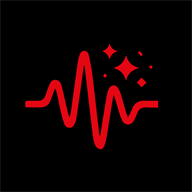
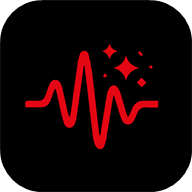
v170: scene e scalette in main, icona arrotondata e Novita
Il ramo scene entra in main (chiesto dall'utente): scene e scalette sulla
pagina PC. Tolte le scene e la scaletta finte della bozza. I dati che
arrivano dal sync o da un backup si ripuliscono all'ingresso (scenaPulita,
scalettePulite): al piu' tre scene, valori fra 0 e 1, campi del tipo giusto;
era la condizione dell'audit per il merge.

L'icona della webapp installata con gli angoli arrotondati (raggio 22%,
come le icone delle app), dallo script make-icons.ps1; la maskable e
l'apple-touch-icon restano piene. Nei manifest l'icona ha ?v=2, perche'
chi ha l'app installata la riprenda. Splash Novita v170 in italiano e
inglese. Microsoft Store: fermo alla 1.0.2, per scelta dell'utente.

diff --git a/src/pc/16-scene.js b/src/pc/16-scene.js
@@ -1,4 +1,4 @@
-// Sparkling Tones — pc/16-scene.js: le scene di un preset, solo sul PC (bozza, 18 novembre 2026).
+// Sparkling Tones — pc/16-scene.js: le scene di un preset, solo sul PC (18 novembre 2026).
 //
 // Studio e misure in docs/scene.md. Una scena è una variante dello stesso preset: **cambia solo
 // manopole e acceso/spento, mai un modello**. Nel record: `record.scene = [{ nome,
@@ -23,7 +23,26 @@ const SCENA_PRESSIONE = 700;   // ms tenendo premuto per aprire il riquadro
 
 live.scene = false;     // il modo Scene della Live
 
-const sceneDi = record => (record && Array.isArray(record.scene)) ? record.scene : [];
+/**
+ * Le scene di un preset, ripulite sul posto (audit del 19 novembre 2026): `record.scene` arriva anche
+ * dal sync e dai backup, e i suoi valori vanno all'ampli con `0x0104`. Al più tre; valori numerici fra
+ * 0 e 1, acceso/spento veri booleani; il resto si scarta. Si pulisce senza togliere scene, così gli
+ * indici (la scena che suona, la partenza delle canzoni) restano quelli.
+ */
+function scenaPulita(s) {
+  const o = x => (x && typeof x === 'object' && !Array.isArray(x)) ? x : {};
+  const cambi = {}, accesi = {};
+  for (const [k, v] of Object.entries(o(s && s.cambi)))
+    if (/^[^#]+#\d+$/.test(k) && typeof v === 'number' && Number.isFinite(v)) cambi[k] = Math.max(0, Math.min(1, v));
+  for (const [k, v] of Object.entries(o(s && s.accesi)))
+    if (typeof v === 'boolean') accesi[k] = v;
+  return { nome: String((s && s.nome) == null ? '' : s.nome).slice(0, 100), cambi, accesi };
+}
+function sceneDi(record) {
+  if (!record || !Array.isArray(record.scene)) return [];
+  record.scene = record.scene.slice(0, SCENE_MAX).map(scenaPulita);
+  return record.scene;
+}
 
 /** Il record in libreria di quello che suona, fresco (le scene cambiano anche da qui). */
 const recordDiOra = () => (ora && ora.record ? tutti.find(r => r.id === ora.record.id) || ora.record : null);
@@ -386,37 +405,4 @@ async function apriRiquadroScena(record, indice) {
   }
   // Si torna a quello che deve suonare: la scena salvata, o quella di prima se si annulla o si elimina.
   await suonaScena(r && r.azione === 'salva' ? indice : (ora.scena === undefined ? null : ora.scena));
-}
-
-/* ---- SOLO BOZZA (pc.html?bozza#finto): due preset finti con le scene già fatte. ---- */
-if (/bozza/.test(location.search)) {
-  // La libreria la riempie l'ampli finto quando si collega: si aspetta che ci sia.
-  const aspetta = setInterval(async () => {
-    const elenco = await store.all();
-    if (!elenco.length) return;
-    clearInterval(aspetta);
-    for (const record of elenco.slice(0, 2)) {
-      if (sceneDi(record).length) continue;
-      const fx = record.effects;
-      const drive = fx[2], delay = fx[5], ampli = fx[3];
-      const gain = (e, d) => ({ [e.name + '#0']: Math.max(0, Math.min(1, e.params[0].value + d)) });
-      record.scene = [
-        { nome: 'Ritmica', cambi: gain(drive, -0.2), accesi: { [delay.name]: false } },
-        { nome: 'Solo', cambi: { ...gain(drive, 0.3), ...gain(delay, 0.15) }, accesi: { [delay.name]: true, [drive.name]: true } },
-        { nome: 'Pulito', cambi: gain(ampli, -0.4), accesi: { [drive.name]: false } },
-      ];
-      await store.put(record);
-    }
-    // E una scaletta finta: «Billie Jean» parte dalla terza scena.
-    if (!(await store.getScalette()).length) {
-      const [a, b, c] = elenco;
-      await store.setScalette([{ uuid: nuovoUuid(), nome: 'Serata di prova', canzoni: [
-        { uuid: nuovoUuid(), nome: 'Billie Jean', preset: a.uuid, partenza: 2 },
-        { uuid: nuovoUuid(), nome: 'Wish You Were Here', preset: b.uuid, partenza: null },
-        { uuid: nuovoUuid(), nome: 'Sunshine of Your Love', preset: (c || a).uuid, partenza: null },
-        { uuid: nuovoUuid(), nome: 'Hotel California', preset: a.uuid, partenza: 1 },
-      ] }]);
-    }
-    await ricarica(); disegnaTutto();
-  }, 1000);
 }

diff --git a/src/lingua-en.js b/src/lingua-en.js
@@ -2045,6 +2045,26 @@ window.LINGUA_EN = {
     "The PC guide explains the Live looper: length, count-in, click and every button.",
   "Versione {0}":
     "Version {0}",
+  "Le scene":
+    "Scenes",
+  "Fino a tre scene per preset, più la Base: cambiano manopole ed effetti accesi senza cambiare preset. Nella Live, modo Scene; tenendo premuto un pulsantone la scena si modifica mentre la senti.":
+    "Up to three scenes per preset, plus the Base: they change knobs and which effects are on without changing preset. In Live, Scenes mode; hold a big button down to edit the scene while you hear it.",
+  "Le canzoni della serata, ognuna col suo preset e la scena da cui parte. Si preparano da «Scalette» e si suonano dalla Live, modo Scene.":
+    "The songs of the night, each with its preset and the scene it starts from. Prepare them from “Setlists” and play them from Live, Scenes mode.",
+  "Con «La mia chitarra», «Genera con l'IA» consiglia anche quali pickup usare; si vedono dall'icona della chitarra, e si possono scrivere a mano.":
+    "With “My guitar”, “Generate with AI” also suggests which pickups to use; you see them from the guitar icon, and you can write them yourself.",
+  "Pressione lunga più corta":
+    "Shorter long press",
+  "Nella Live, la pressione lunga degli switch MIDI si può fissare anche a 0,7 s.":
+    "In Live, the long press of MIDI switches can now also be set to 0.7 s.",
+  "Più sicura sul palco":
+    "Safer on stage",
+  "Un preset con un effetto che l'ampli non conosce non parte più dalla Live né dall'editor: avrebbe potuto bloccare l'ampli.":
+    "A preset with an effect the amp doesn't know no longer starts from Live or from the editor: it could have frozen the amp.",
+  "Icona arrotondata":
+    "Rounded icon",
+  "L'icona dell'app installata ha gli angoli arrotondati.":
+    "The installed app's icon has rounded corners.",
   "Spark Mini, GO e 40 sul PC":
     "Spark Mini, GO and 40 on the PC",
   "Cambiando preset l'app aspetta un attimo prima di rileggere il suono, come già sul NEO.":

diff --git a/src/novita.js b/src/novita.js
@@ -26,6 +26,24 @@ function dataNovita(d) {
 
 const NOVITA = [
   {
+    versione: 'v170',
+    data: '19 novembre 2026',
+    voci: [
+      { icona: '🎛', titolo: tr('Le scene'), dove: 'pc',
+        testo: tr('Fino a tre scene per preset, più la Base: cambiano manopole ed effetti accesi senza cambiare preset. Nella Live, modo Scene; tenendo premuto un pulsantone la scena si modifica mentre la senti.') },
+      { icona: '📋', titolo: tr('Le scalette'), dove: 'pc',
+        testo: tr('Le canzoni della serata, ognuna col suo preset e la scena da cui parte. Si preparano da «Scalette» e si suonano dalla Live, modo Scene.') },
+      { icona: '🎸', titolo: tr('Pickup consigliati'), dove: 'pc',
+        testo: tr('Con «La mia chitarra», «Genera con l\'IA» consiglia anche quali pickup usare; si vedono dall\'icona della chitarra, e si possono scrivere a mano.') },
+      { icona: '⏱', titolo: tr('Pressione lunga più corta'), dove: 'pc',
+        testo: tr('Nella Live, la pressione lunga degli switch MIDI si può fissare anche a 0,7 s.') },
+      { icona: '🛡', titolo: tr('Più sicura sul palco'), dove: 'telefono',
+        testo: tr('Un preset con un effetto che l\'ampli non conosce non parte più dalla Live né dall\'editor: avrebbe potuto bloccare l\'ampli.') },
+      { icona: '📱', titolo: tr('Icona arrotondata'),
+        testo: tr('L\'icona dell\'app installata ha gli angoli arrotondati.') },
+    ],
+  },
+  {
     versione: 'v169',
     data: '17 novembre 2026',
     voci: [

diff --git a/src/pc/02-stato.js b/src/pc/02-stato.js
@@ -32,8 +32,27 @@ async function ricarica() {
   famiglie = await store.getFamiglie();
   categorie = await store.allCategories();
   banchi = await store.getBanks();
-  scalette = await store.getScalette();
+  scalette = scalettePulite(await store.getScalette());
   vista.ordine = await store.getSetting('ordineLibreria', vista.ordine);
+}
+
+/**
+ * Le scalette come le usa la pagina, qualunque cosa arrivi dal sync o da un backup (audit del 19
+ * novembre 2026): campi del tipo giusto, la scena di partenza fra 0 e 2 o null (la Base).
+ */
+function scalettePulite(elenco) {
+  const oggetti = a => (Array.isArray(a) ? a : []).filter(x => x && typeof x === 'object');
+  return oggetti(elenco).map(s => ({
+    uuid: typeof s.uuid === 'string' && s.uuid ? s.uuid : nuovoUuid(),
+    nome: String(s.nome == null ? '' : s.nome).slice(0, 100) || tr('Scaletta'),
+    canzoni: oggetti(s.canzoni).map(c => ({
+      uuid: typeof c.uuid === 'string' && c.uuid ? c.uuid : nuovoUuid(),
+      nome: String(c.nome == null ? '' : c.nome).slice(0, 100),
+      preset: typeof c.preset === 'string' ? c.preset : null,
+      // 3 = SCENE_MAX (16-scene.js, che qui al caricamento non c'è ancora)
+      partenza: Number.isInteger(c.partenza) && c.partenza >= 0 && c.partenza < 3 ? c.partenza : null,
+    })),
+  }));
 }
 
 /** Come si guarda la libreria: ricerca, filtri e ordine (l'ordine si ricorda, come nell'app). */

diff --git a/sw.js b/sw.js
@@ -14,7 +14,7 @@
  */
 'use strict';
 
-const VERSIONE = 'v169';
+const VERSIONE = 'v170';
 const CACHE = 'spark-' + VERSIONE;
 
 /** Tutto quello che serve per far partire l'app da spenta, senza rete. */
@@ -89,8 +89,8 @@ const GUSCIO = [
   './src/pc/16-pickup.js',
   './src/pc/17-scalette.js',
   './immagini/classico/ampli.webp',
-  './icons/icon-192.png',
-  './icons/icon-512.png',
+  './icons/icon-192.png?v=2',
+  './icons/icon-512.png?v=2',
   './icons/icon-maskable-512.png',
   './icons/apple-touch-icon.png',
   './immagini/circuito-elettroni.svg',

diff --git a/src/pc/17-scalette.js b/src/pc/17-scalette.js
@@ -1,4 +1,4 @@
-// Sparkling Tones — pc/17-scalette.js: le scalette, solo sul PC (bozza, 18 novembre 2026).
+// Sparkling Tones — pc/17-scalette.js: le scalette, solo sul PC (18 novembre 2026).
 //
 // L'idea è dell'utente (docs/scaletta.md): **le scalette si creano fuori dalla Live**, in una
 // schermata come i Banchi, coi nomi delle canzoni; **a ogni canzone si assegna un preset** e la
